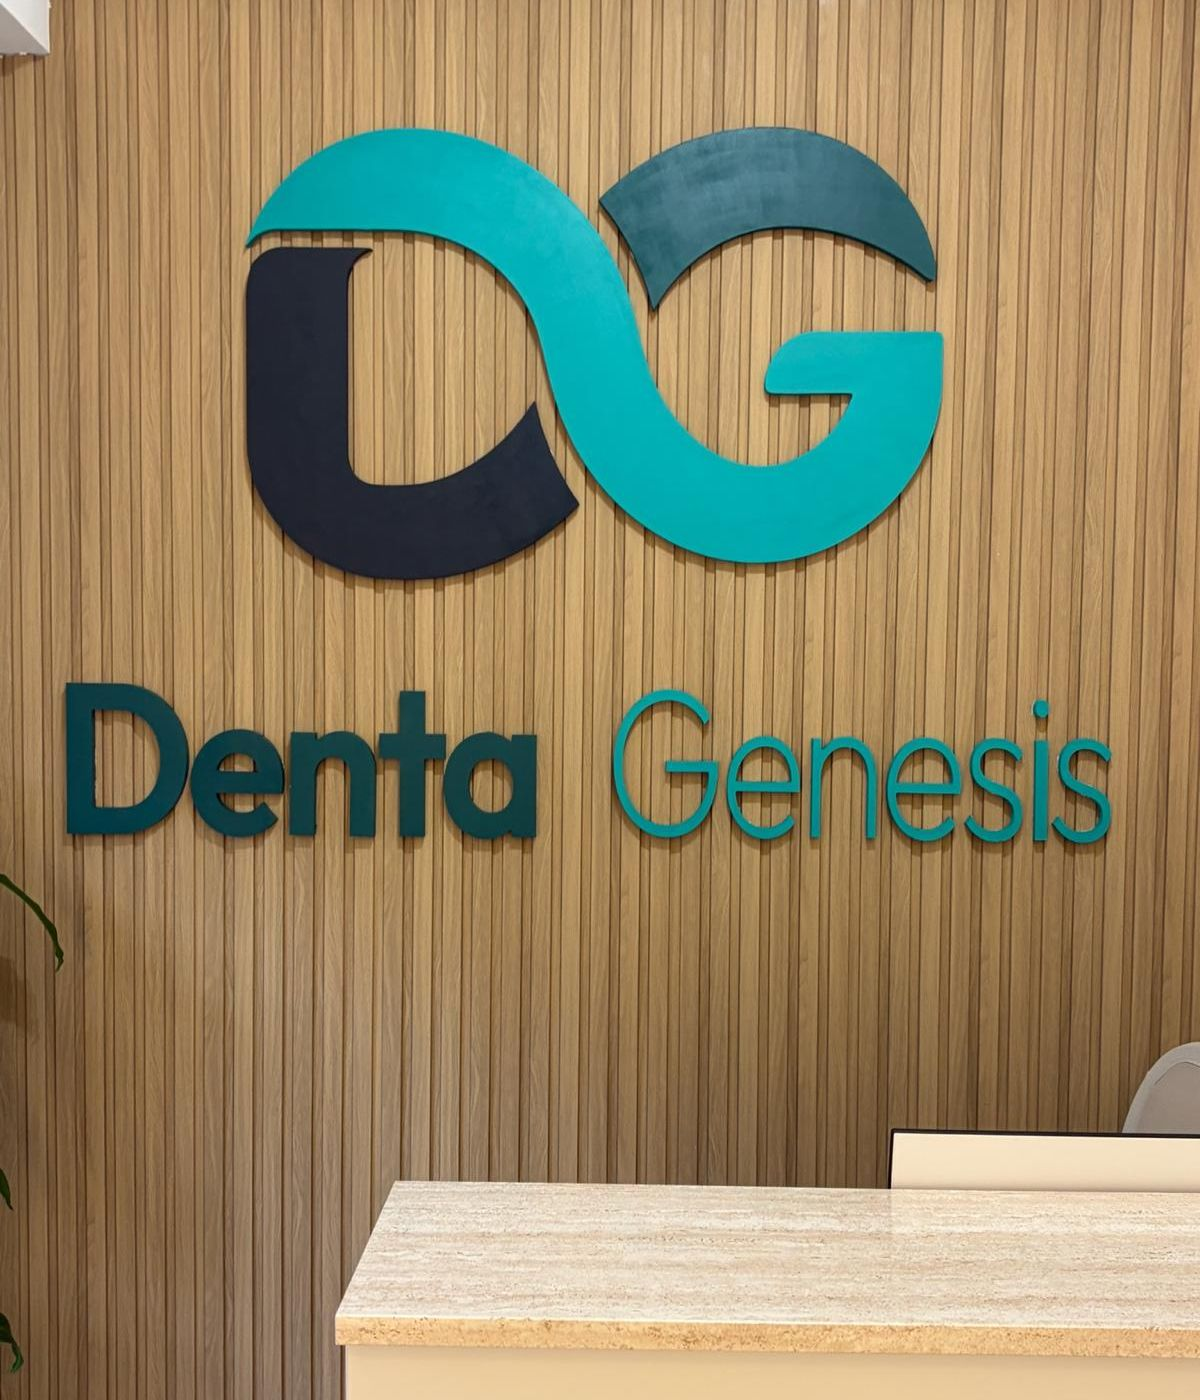
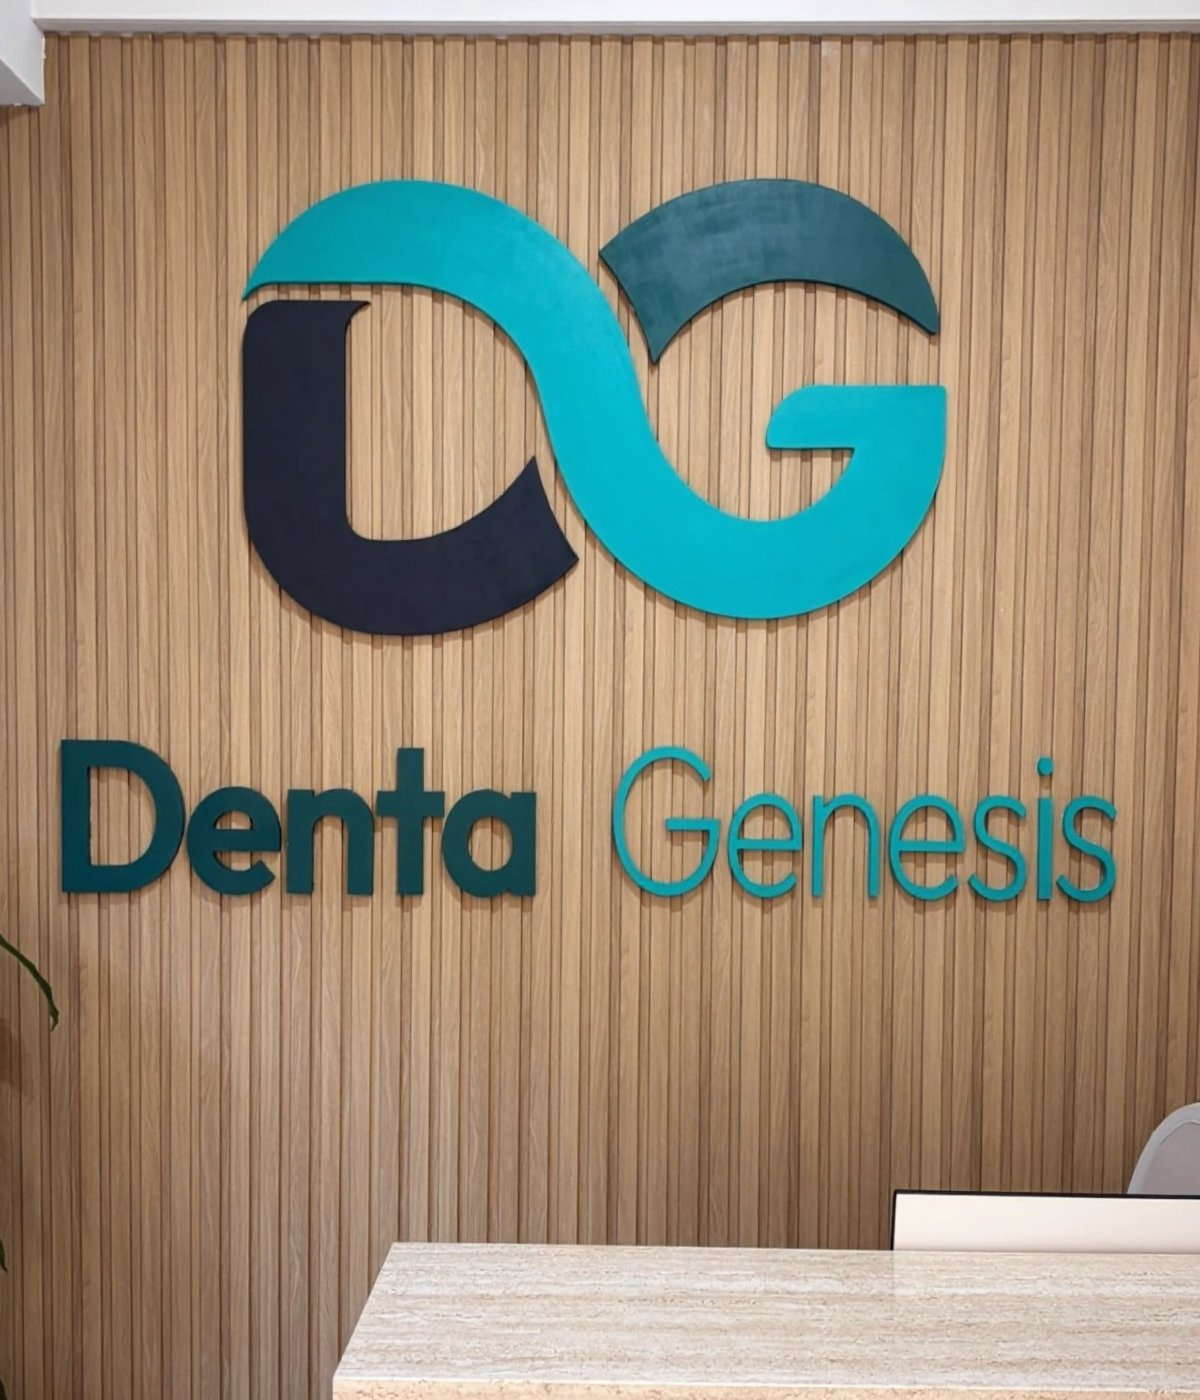
mejora

diff --git a/index.html b/index.html
@@ -193,7 +193,7 @@
 
         <!-- FOTO: hero.jpg — pared de recepción con el logotipo -->
         <div class="hero__media">
-          <figure class="ph ph--hero" data-foto="hero.jpg"><img src="img/fotos/hero.jpg?v=2" alt="Recepción de la clínica dental Denta Genesis en La Orotava, con el logotipo en la pared de madera" width="1200" height="1400" fetchpriority="high" decoding="async" onerror="this.remove()">
+          <figure class="ph ph--hero" data-foto="hero.jpg"><img src="img/fotos/hero.jpg?v=3" alt="Recepción de la clínica dental Denta Genesis en La Orotava, con el logotipo en la pared de madera" width="1200" height="1400" fetchpriority="high" decoding="async" onerror="this.remove()">
           </figure>
           <div class="hero__badge">
             <img src="img/logo-dg-claro.png" alt="" width="44" height="25" aria-hidden="true">
@@ -343,10 +343,10 @@
 
           <!-- Fotos de la clínica en rotación: img/fotos/clinica-slide-1..4.jpg -->
           <div class="slider" id="slider" aria-roledescription="carrusel" aria-label="Fotos de la clínica Denta Genesis">
-            <figure class="slider__slide is-active"><img src="img/fotos/clinica-slide-1.jpg" alt="Sala de espera de la clínica dental Denta Genesis en La Orotava" width="960" height="1200" loading="lazy" decoding="async"><figcaption>Sala de espera</figcaption></figure>
+            <figure class="slider__slide is-active"><img src="img/fotos/clinica-slide-1.jpg?v=2" alt="Sala de espera de la clínica dental Denta Genesis en La Orotava" width="960" height="1200" loading="lazy" decoding="async"><figcaption>Sala de espera</figcaption></figure>
             <figure class="slider__slide"><img src="img/fotos/clinica-slide-2.jpg" alt="Gabinete dental de Denta Genesis con sillón y equipo" width="960" height="1200" loading="lazy" decoding="async"><figcaption>Gabinete</figcaption></figure>
-            <figure class="slider__slide"><img src="img/fotos/clinica-slide-3.jpg" alt="Gabinete dental equipado de Denta Genesis" width="960" height="1200" loading="lazy" decoding="async"><figcaption>Gabinete</figcaption></figure>
-            <figure class="slider__slide"><img src="img/fotos/clinica-slide-4.jpg" alt="Pasillo de la clínica Denta Genesis" width="960" height="1200" loading="lazy" decoding="async"><figcaption>Zona de gabinetes</figcaption></figure>
+            <figure class="slider__slide"><img src="img/fotos/clinica-slide-3.jpg?v=2" alt="Gabinete dental equipado de Denta Genesis" width="960" height="1200" loading="lazy" decoding="async"><figcaption>Gabinete</figcaption></figure>
+            <figure class="slider__slide"><img src="img/fotos/clinica-slide-4.jpg?v=2" alt="Pasillo de la clínica Denta Genesis" width="960" height="1200" loading="lazy" decoding="async"><figcaption>Zona de gabinetes</figcaption></figure>
             <div class="slider__dots" role="tablist" aria-label="Elegir foto">
               <button type="button" class="is-active" aria-label="Foto 1"></button>
               <button type="button" aria-label="Foto 2"></button>
@@ -410,14 +410,13 @@
         </div>
       </div>
       <div class="tour__track" id="tourTrack" tabindex="0" aria-label="Galería de fotos de la clínica">
-        <figure class="tour__item"><img src="img/fotos/inst-fachada.jpg" alt="Fachada de la clínica dental Denta Genesis, especialistas en implantes dentales, en La Orotava" width="900" height="1200" loading="lazy" decoding="async"><figcaption>Fachada</figcaption></figure>
+        <figure class="tour__item"><img src="img/fotos/inst-fachada.jpg?v=2" alt="Fachada de la clínica dental Denta Genesis, especialistas en implantes dentales, en La Orotava" width="900" height="1200" loading="lazy" decoding="async"><figcaption>Fachada</figcaption></figure>
         <figure class="tour__item"><img src="img/fotos/inst-recepcion.jpg" alt="Recepción de la clínica dental Denta Genesis con el logotipo en la pared de madera" width="900" height="1200" loading="lazy" decoding="async"><figcaption>Recepción</figcaption></figure>
-        <figure class="tour__item"><img src="img/fotos/inst-sala-espera.jpg" alt="Sala de espera de Denta Genesis en La Orotava, con sillones y televisión" width="900" height="1200" loading="lazy" decoding="async"><figcaption>Sala de espera</figcaption></figure>
-        <figure class="tour__item"><img src="img/fotos/inst-zona-gabinetes.jpg" alt="Zona de gabinetes de la clínica Denta Genesis, con pasillo iluminado y salas acristaladas" width="900" height="1200" loading="lazy" decoding="async"><figcaption>Zona de gabinetes</figcaption></figure>
-        <figure class="tour__item"><img src="img/fotos/inst-gabinete1-b.jpg" alt="Gabinete 1 de la clínica dental Denta Genesis, con sillón dental y pantalla" width="900" height="1200" loading="lazy" decoding="async"><figcaption>Gabinete 1</figcaption></figure>
-        <figure class="tour__item"><img src="img/fotos/inst-gabinete1-a.jpg" alt="Gabinete 1 de Denta Genesis con equipo dental y radiología intraoral" width="900" height="1200" loading="lazy" decoding="async"><figcaption>Gabinete 1</figcaption></figure>
+        <figure class="tour__item"><img src="img/fotos/inst-sala-espera.jpg?v=2" alt="Sala de espera de Denta Genesis en La Orotava, con sillones y televisión" width="900" height="1200" loading="lazy" decoding="async"><figcaption>Sala de espera</figcaption></figure>
+        <figure class="tour__item"><img src="img/fotos/inst-zona-gabinetes.jpg?v=2" alt="Zona de gabinetes de la clínica Denta Genesis, con pasillo iluminado y salas acristaladas" width="900" height="1200" loading="lazy" decoding="async"><figcaption>Zona de gabinetes</figcaption></figure>
+        <figure class="tour__item"><img src="img/fotos/inst-gabinete1-b.jpg?v=2" alt="Gabinete 1 de la clínica dental Denta Genesis, con sillón dental y pantalla" width="900" height="1200" loading="lazy" decoding="async"><figcaption>Gabinete 1</figcaption></figure>
         <figure class="tour__item"><img src="img/fotos/inst-gabinete2-a.jpg" alt="Gabinete 2 de la clínica dental Denta Genesis, con sillón dental azul" width="900" height="1200" loading="lazy" decoding="async"><figcaption>Gabinete 2</figcaption></figure>
-        <figure class="tour__item"><img src="img/fotos/inst-gabinete2-b.jpg" alt="Vista frontal del Gabinete 2 de Denta Genesis" width="900" height="1200" loading="lazy" decoding="async"><figcaption>Gabinete 2</figcaption></figure>
+        <figure class="tour__item"><img src="img/fotos/inst-gabinete2-b.jpg?v=2" alt="Vista frontal del Gabinete 2 de Denta Genesis" width="900" height="1200" loading="lazy" decoding="async"><figcaption>Gabinete 2</figcaption></figure>
         <figure class="tour__item"><img src="img/fotos/inst-gabinete2-c.jpg" alt="Lámpara y equipo dental del Gabinete 2 de Denta Genesis" width="900" height="1200" loading="lazy" decoding="async"><figcaption>Gabinete 2</figcaption></figure>
         <figure class="tour__item"><img src="img/fotos/inst-radiologia.jpg" alt="Equipo de radiología dental digital (ortopantomógrafo) en la clínica Denta Genesis, La Orotava" width="900" height="1200" loading="lazy" decoding="async"><figcaption>Radiología digital</figcaption></figure>
       </div>

diff --git a/css/styles.css b/css/styles.css
@@ -323,7 +323,7 @@ p { margin: 0 0 1em; }
 /* Hero con foto + distintivo flotante */
 .hero__media { position: relative; }
 .ph--hero { box-shadow: 0 40px 80px -40px rgba(0,0,0,.7); }
-.ph--hero img { object-position: 30% 50%; }
+.ph--hero img { object-position: 50% 50%; }
 .hero__badge {
   position: absolute; left: -28px; bottom: 44px; z-index: 2;
   display: flex; align-items: center; gap: 14px;
